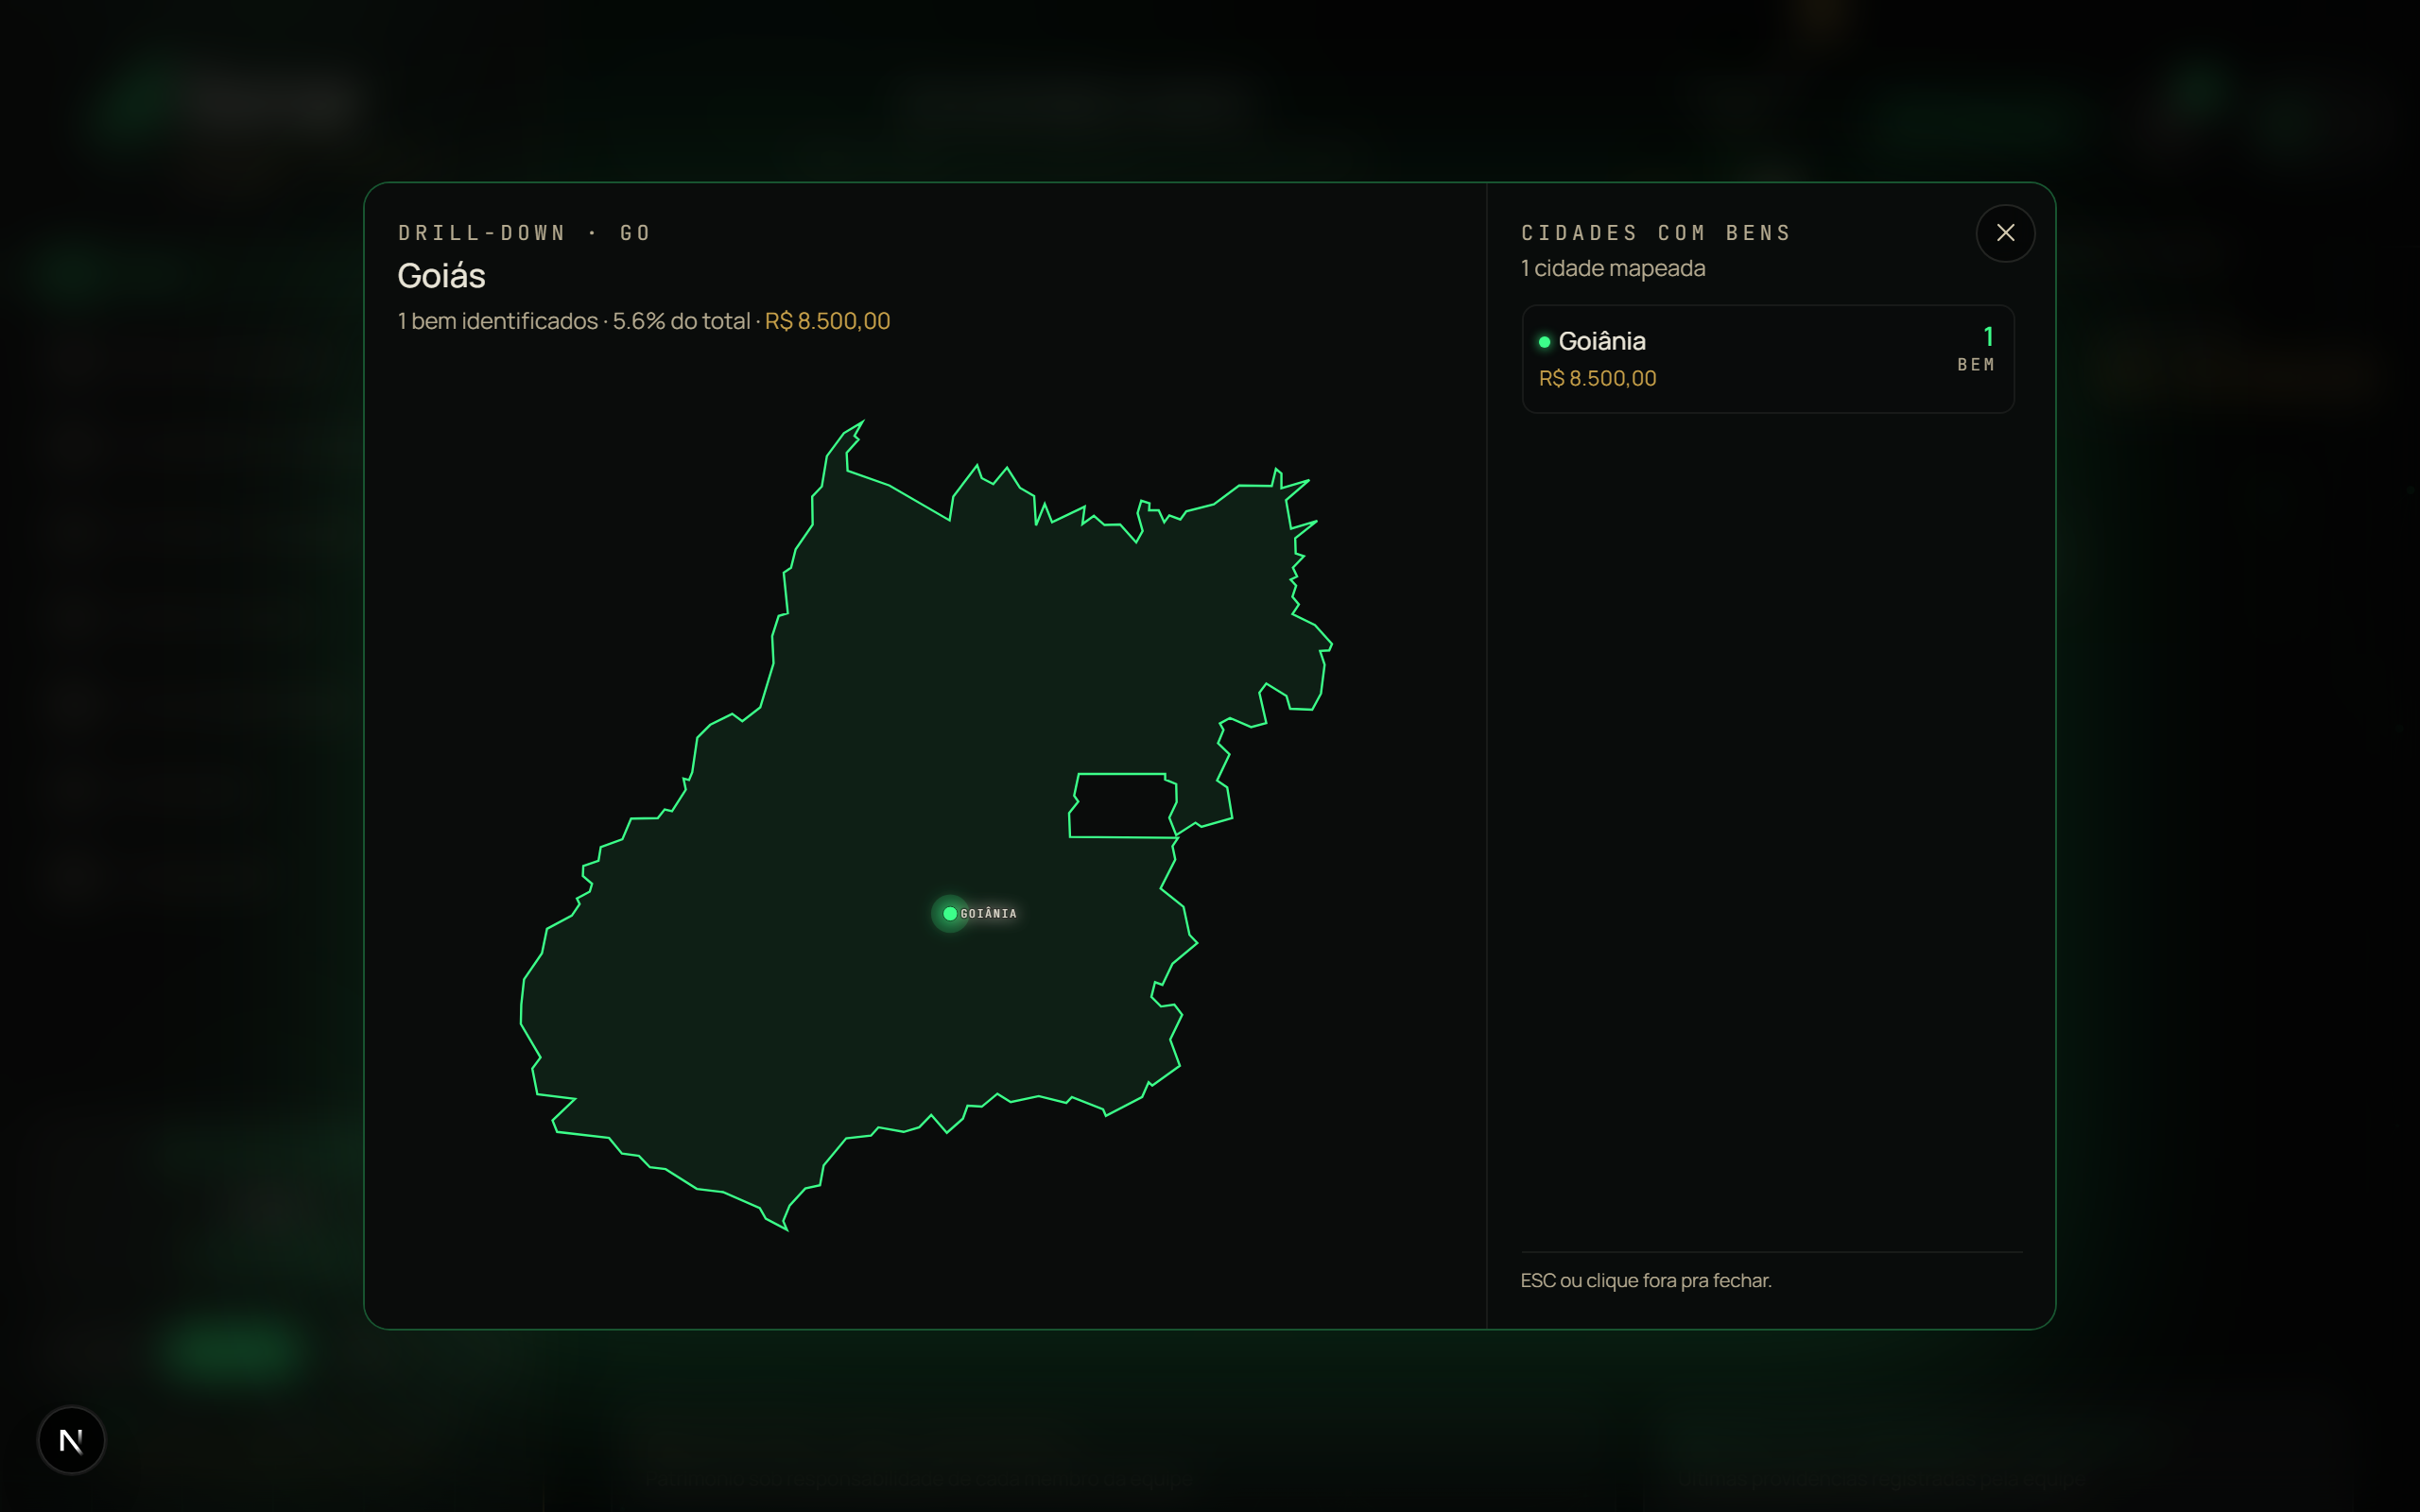
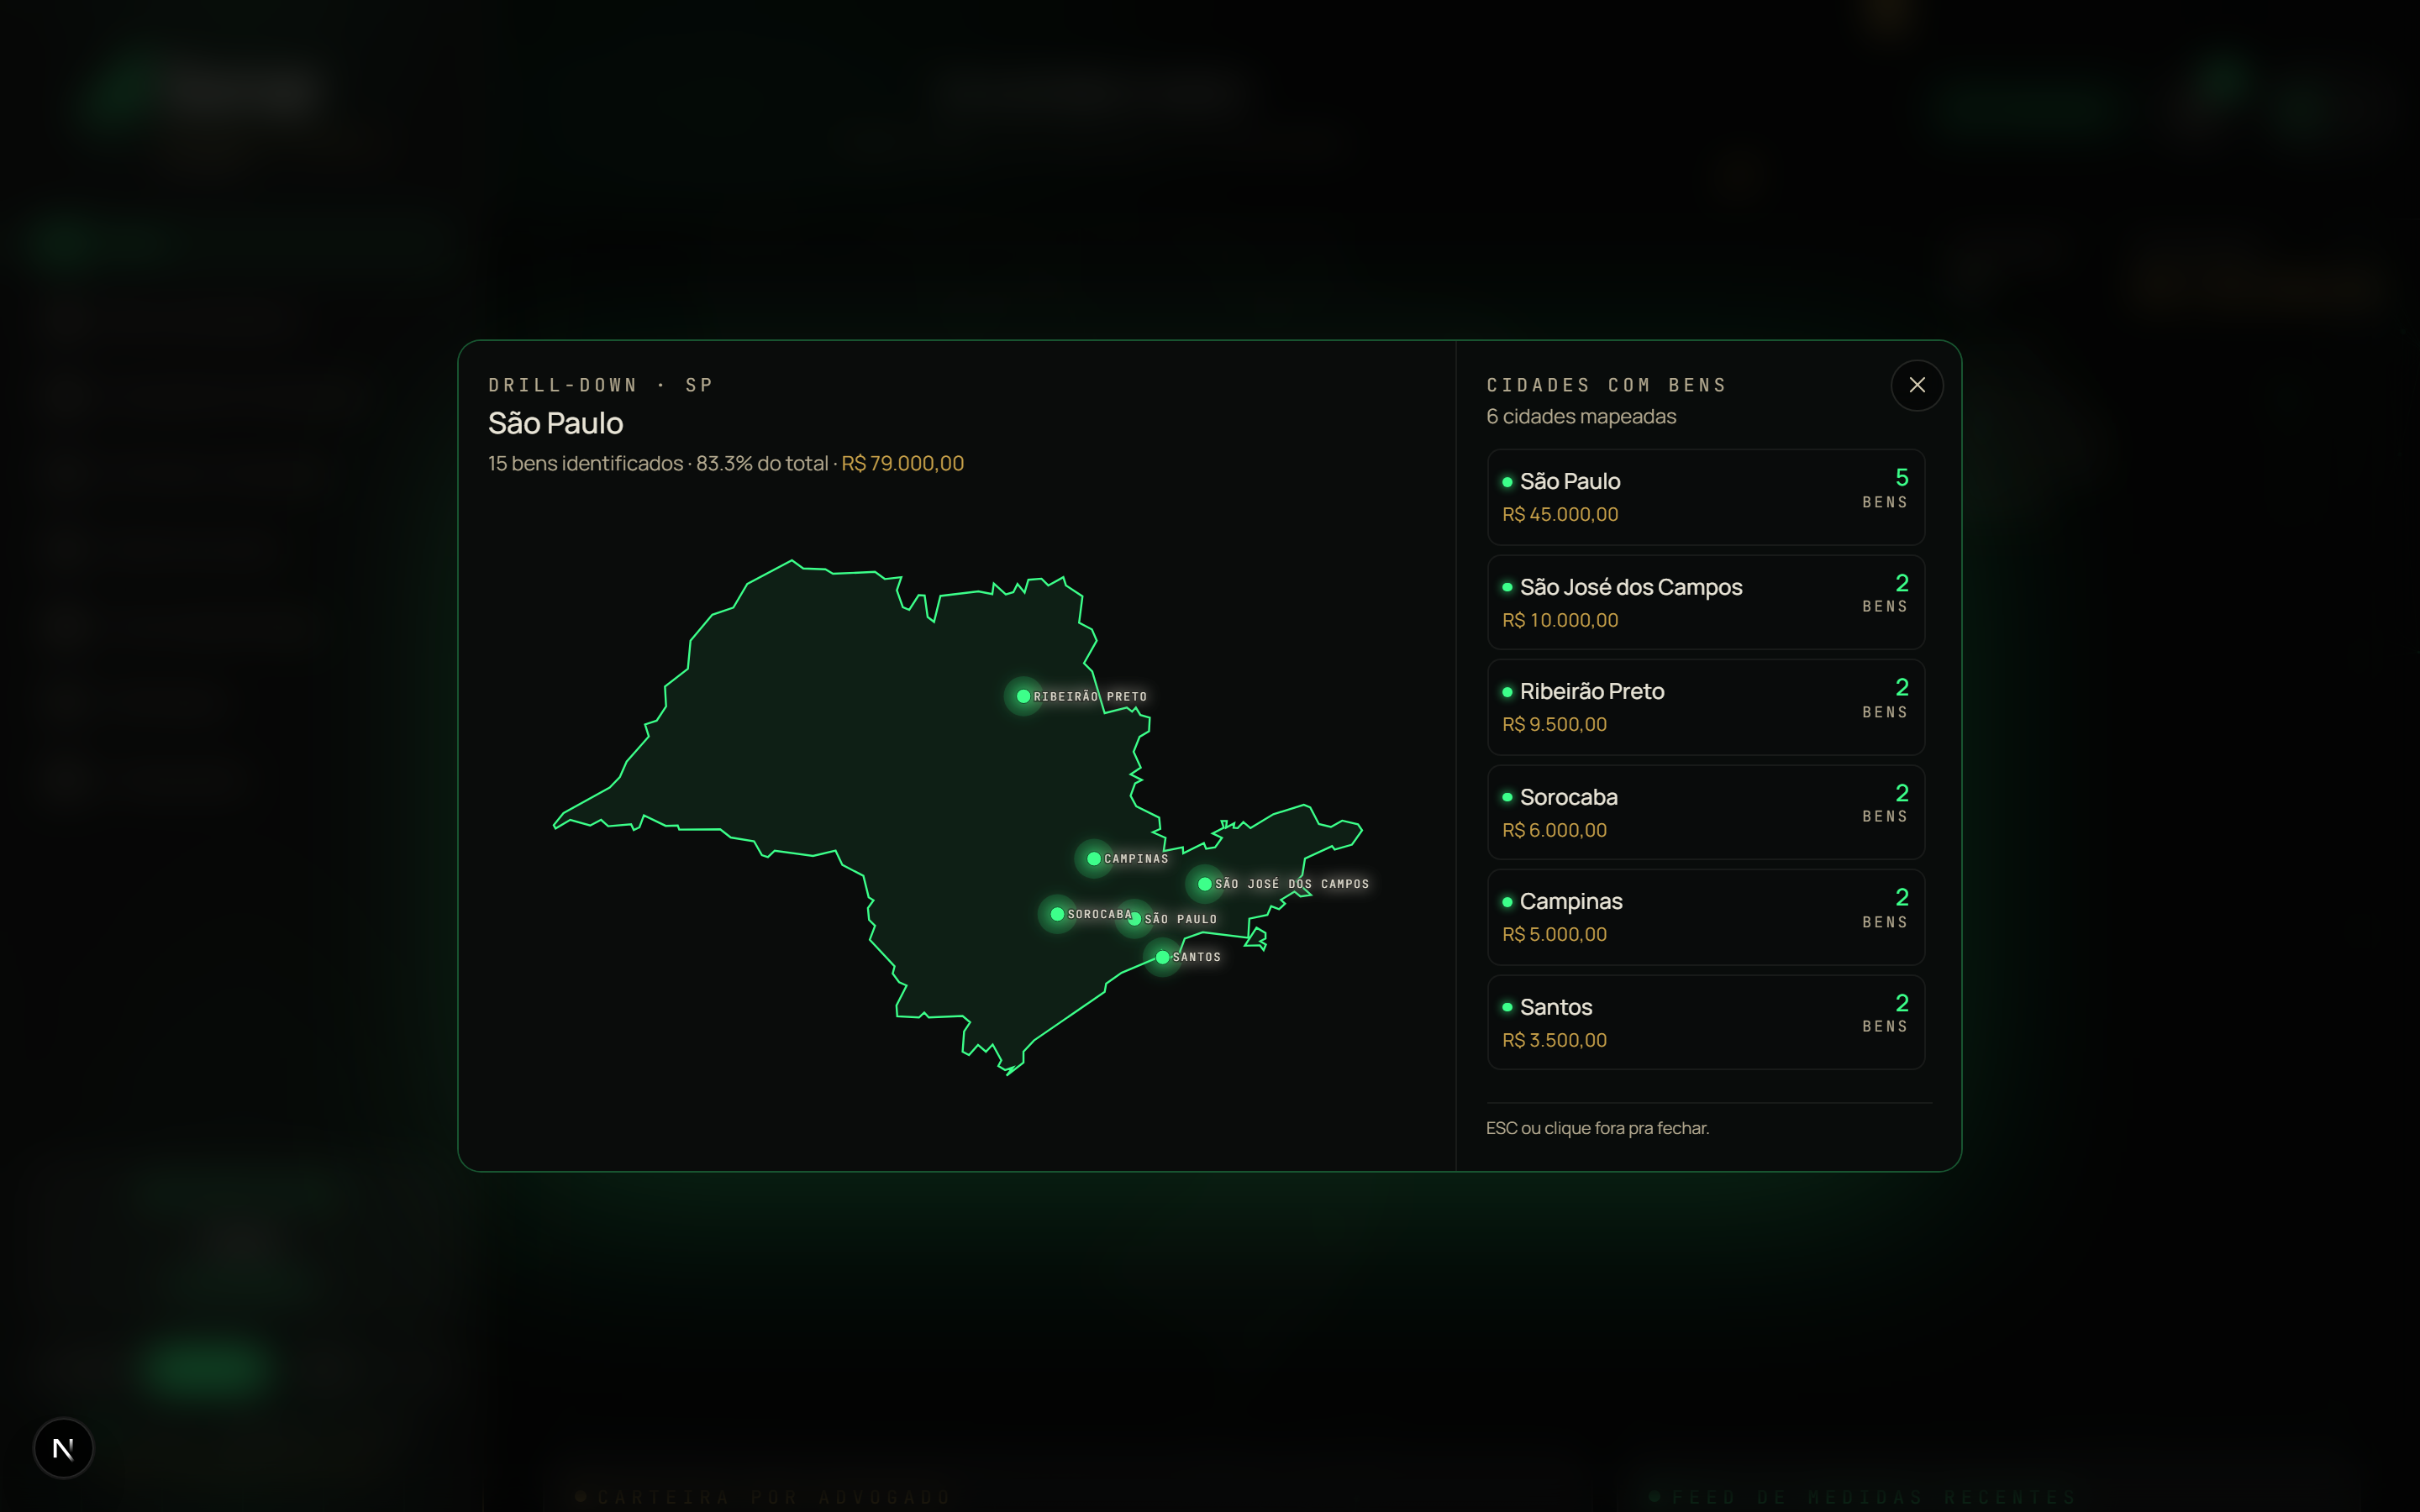
ShowcaseAction: ScrollWindow ganha prop scrollEnd; bloco 05 (Custos) usa -95% pra mostrar imagem inteira (Caio: 'faca o scroll completo')

diff --git a/src/components/landing/ShowcaseAction.tsx b/src/components/landing/ShowcaseAction.tsx
@@ -144,12 +144,16 @@ function ScrollWindow({
   accent = "signal",
   imageHeight = 2400,
   aspect = "16/10",
+  scrollEnd = "-65%",
 }: {
   src: string;
   alt: string;
   accent?: Accent;
   imageHeight?: number;
   aspect?: string;
+  /** Ate onde a imagem rola (em %). Default -65% (mostra topo + metade
+   * inferior). Use -95% pra scroll COMPLETO (revela imagem inteira). */
+  scrollEnd?: string;
 }) {
   const ref = useRef<HTMLDivElement>(null);
   const { scrollYProgress } = useScroll({
@@ -162,9 +166,9 @@ function ScrollWindow({
   });
 
   // Pausa inicial: nos primeiros 18% do progresso a imagem fica parada
-  // no topo (0%), depois rola até -65%. Isso dá tempo do usuário ver
+  // no topo, depois rola até `scrollEnd`. Isso dá tempo do usuário ver
   // o cabeçalho/topo da tela antes de qualquer movimento.
-  const y = useTransform(scrollYProgress, [0, 0.18, 1], ["0%", "0%", "-65%"]);
+  const y = useTransform(scrollYProgress, [0, 0.18, 1], ["0%", "0%", scrollEnd]);
 
   return (
     <div
@@ -461,7 +465,7 @@ export function ShowcaseAction() {
                 className="font-mono text-[11px] uppercase tracking-[0.28em]"
                 style={{ color: "var(--color-ivory-66)" }}
               >
-                Drill-down em Goiás
+                Drill-down em São Paulo
               </span>
               <div
                 className="overflow-hidden rounded-2xl border border-[var(--color-line)]"
@@ -469,7 +473,7 @@ export function ShowcaseAction() {
               >
                 <Image
                   src="/img/showcase/mapa-estadual.png"
-                  alt="Drill-down em Goiás — cidades e pinos por bem"
+                  alt="Drill-down em São Paulo — cidades e pinos por bem"
                   width={1280}
                   height={800}
                   className="block h-auto w-full"
@@ -568,6 +572,7 @@ export function ShowcaseAction() {
               accent="gold"
               imageHeight={2400}
               aspect="4/5"
+              scrollEnd="-95%"
             />
           }
           accent="gold"